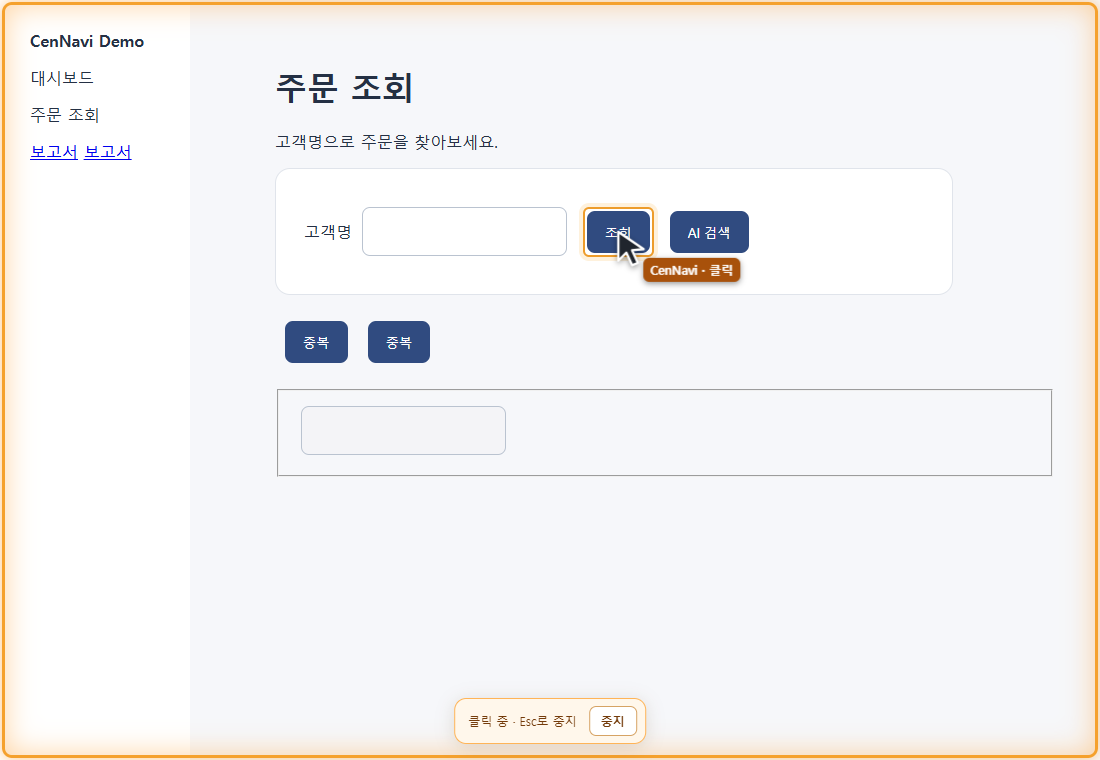
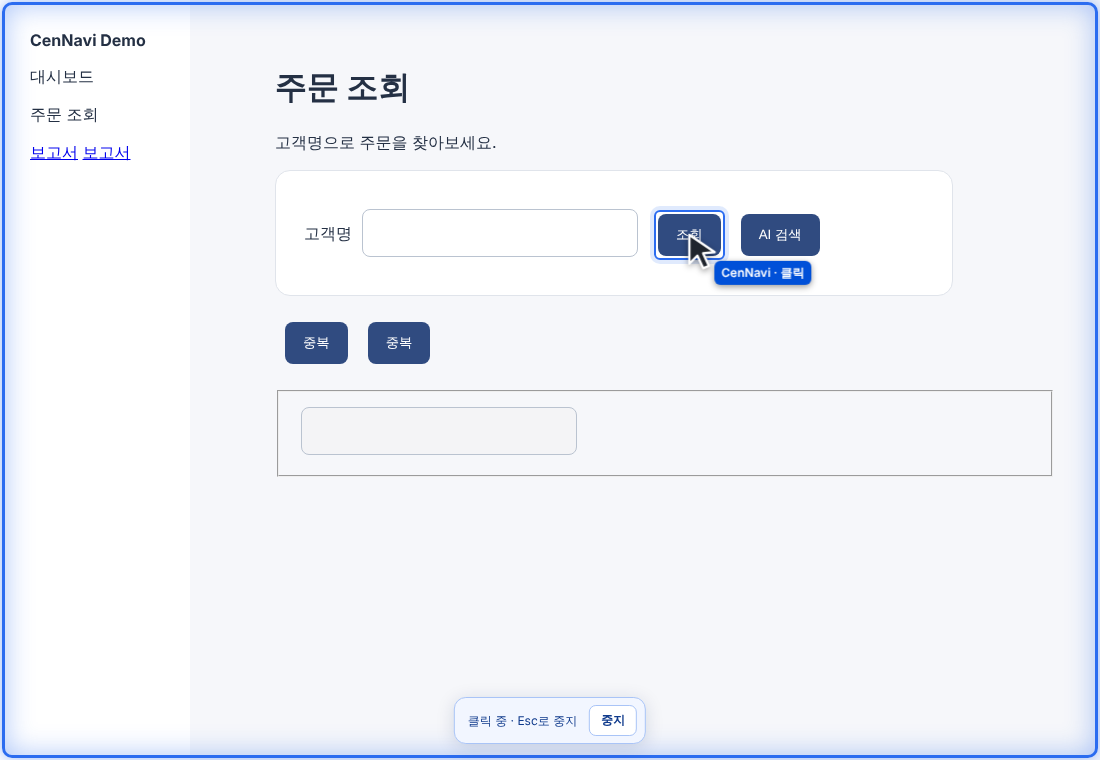
style: 화면 조작 오버레이를 CenNavi 파란색 계열로 변경
테두리·빛번짐·커서 이름표·대상 표시·클릭 물결·상태 바를
주황 계열에서 로고와 같은 파란 계열로 바꿨다.

Claude-Session: https://claude.ai/code/session_017Fscdg7LzYKExuVFzeAotn

diff --git a/extension/interaction.js b/extension/interaction.js
@@ -8,7 +8,7 @@ function showVerifiedTargets(ids, labels, snapshot, targets) {
   const root=document.createElement('div');root.id='__guide_overlay';
   root.style.cssText='all:initial!important;position:fixed!important;inset:0!important;width:0!important;height:0!important;overflow:visible!important;pointer-events:none!important;z-index:2147483646!important;';
   const shadow=root.attachShadow({mode:'open'});
-  shadow.innerHTML='<style>.guide-box{position:fixed;box-sizing:border-box;border:2px solid #e99a23;border-radius:6px;box-shadow:0 0 0 3px #f59e0b22;pointer-events:none}.guide-caption{position:absolute;left:0;max-width:210px;white-space:nowrap;overflow:hidden;text-overflow:ellipsis;padding:3px 7px;border-radius:5px;background:#ffeed0;color:#684114;font:600 11px/1.5 system-ui}</style>';
+  shadow.innerHTML='<style>.guide-box{position:fixed;box-sizing:border-box;border:2px solid #2b6cf0;border-radius:6px;box-shadow:0 0 0 3px #2b6cf022;pointer-events:none}.guide-caption{position:absolute;left:0;max-width:210px;white-space:nowrap;overflow:hidden;text-overflow:ellipsis;padding:3px 7px;border-radius:5px;background:#e6eeff;color:#0f3a8c;font:600 11px/1.5 system-ui}</style>';
   const boxes=accepted.map(item=>{const box=document.createElement('div');box.className='guide-box';const text=document.createElement('span');text.className='guide-caption';text.textContent=item.label||item.target;box.appendChild(text);shadow.appendChild(box);return {...item,box,text};});
   document.documentElement.appendChild(root);let raf,timer;
   const dispose=()=>{cancelAnimationFrame(raf);clearTimeout(timer);removeEventListener('click',clicked,true);root.remove();};
@@ -30,12 +30,12 @@ function startControlOverlay(snapshot, token) {
   root.style.cssText='all:initial!important;display:block!important;position:fixed!important;inset:0!important;margin:0!important;padding:0!important;border:0!important;width:100vw!important;height:100vh!important;background:transparent!important;pointer-events:none!important;overflow:visible!important;z-index:2147483647!important;';
   const shadow=root.attachShadow({mode:'open'});
   shadow.innerHTML=`<style>
-    *{box-sizing:border-box}.control-frame{position:fixed;inset:2px;border:3px solid #f5a12d;border-radius:10px;box-shadow:inset 0 0 26px #ff9b2666,0 0 12px #ff9b2666;pointer-events:none;animation:glow 1.8s ease-in-out infinite}
-    @keyframes glow{50%{box-shadow:inset 0 0 28px #ff9b2670,0 0 15px #ff9b2690}}
-    .control-status{position:fixed;bottom:16px;left:50%;transform:translateX(-50%);display:flex;align-items:center;gap:12px;max-width:calc(100vw - 30px);padding:7px 8px 7px 13px;border:1px solid #ffb457;border-radius:12px;background:#fff7eb;color:#743b0a;box-shadow:0 3px 18px #50300025;font:12px/1.5 system-ui;pointer-events:none}
-    button{pointer-events:auto;cursor:pointer;border:1px solid #d6a364;border-radius:7px;background:#fff;color:#743b0a;font:600 12px system-ui;padding:6px 11px;white-space:nowrap}button:focus-visible{outline:2px solid #743b0a;outline-offset:2px}
-    .control-cursor{position:fixed;left:0;top:0;pointer-events:none;filter:drop-shadow(0 2px 3px #0006);will-change:transform}.control-cursor[hidden]{display:none}.control-cursor span{position:absolute;left:28px;top:28px;border-radius:6px;padding:3px 7px;background:#a8510b;color:white;font:600 12px/1.5 system-ui;white-space:nowrap}
-    .control-target{position:fixed;border:2px solid #ed9c2b;border-radius:6px;box-shadow:0 0 0 4px #f59e0b25;pointer-events:none}.control-target[hidden]{display:none}.control-ripple{position:fixed;width:24px;height:24px;border:2px solid #d87909;border-radius:50%;pointer-events:none}
+    *{box-sizing:border-box}.control-frame{position:fixed;inset:2px;border:3px solid #2b6cf0;border-radius:10px;box-shadow:inset 0 0 26px #2b6cf055,0 0 12px #2b6cf055;pointer-events:none;animation:glow 1.8s ease-in-out infinite}
+    @keyframes glow{50%{box-shadow:inset 0 0 28px #2b6cf066,0 0 15px #2b6cf088}}
+    .control-status{position:fixed;bottom:16px;left:50%;transform:translateX(-50%);display:flex;align-items:center;gap:12px;max-width:calc(100vw - 30px);padding:7px 8px 7px 13px;border:1px solid #a9c4f7;border-radius:12px;background:#f2f6ff;color:#0f3a8c;box-shadow:0 3px 18px #0a245025;font:12px/1.5 system-ui;pointer-events:none}
+    button{pointer-events:auto;cursor:pointer;border:1px solid #a9c4f7;border-radius:7px;background:#fff;color:#0f3a8c;font:600 12px system-ui;padding:6px 11px;white-space:nowrap}button:focus-visible{outline:2px solid #0f3a8c;outline-offset:2px}
+    .control-cursor{position:fixed;left:0;top:0;pointer-events:none;filter:drop-shadow(0 2px 3px #0006);will-change:transform}.control-cursor[hidden]{display:none}.control-cursor span{position:absolute;left:28px;top:28px;border-radius:6px;padding:3px 7px;background:#0050d8;color:white;font:600 12px/1.5 system-ui;white-space:nowrap}
+    .control-target{position:fixed;border:2px solid #2b6cf0;border-radius:6px;box-shadow:0 0 0 4px #2b6cf025;pointer-events:none}.control-target[hidden]{display:none}.control-ripple{position:fixed;width:24px;height:24px;border:2px solid #0050d8;border-radius:50%;pointer-events:none}
     @media(prefers-reduced-motion:reduce){.control-frame{animation:none}}
   </style><div class="control-frame"></div><div class="control-target" hidden></div><div class="control-cursor"><svg width="36" height="41" viewBox="0 0 36 41" aria-hidden="true"><path d="M3 2v25l7-7 5 11 5-2-5-11 10-1Z" transform="translate(-.45 -.3) scale(1.15)" fill="#20252d" stroke="white" stroke-width="2" stroke-linejoin="round"/></svg><span>CenNavi</span></div><div class="control-status" role="status"><span>CenNavi 실행 중 · Esc로 중지</span><button type="button" aria-label="CenNavi 실행 중지">중지</button></div>`;
   document.documentElement.appendChild(root);

diff --git a/extension/pagereader.js b/extension/pagereader.js
@@ -155,7 +155,7 @@ function extractPage() {
   };
 }
 
-// 안내한 항목 주위에 주황 테두리와 "여기예요" 표시를 띄운다. (클릭 등 조작은 하지 않는다)
+// 안내한 항목 주위에 파란 테두리와 "여기예요" 표시를 띄운다. (클릭 등 조작은 하지 않는다)
 function clearHighlight() {
   const o = document.getElementById("__guide_overlay");
   if (o && o.__stop) o.__stop();
